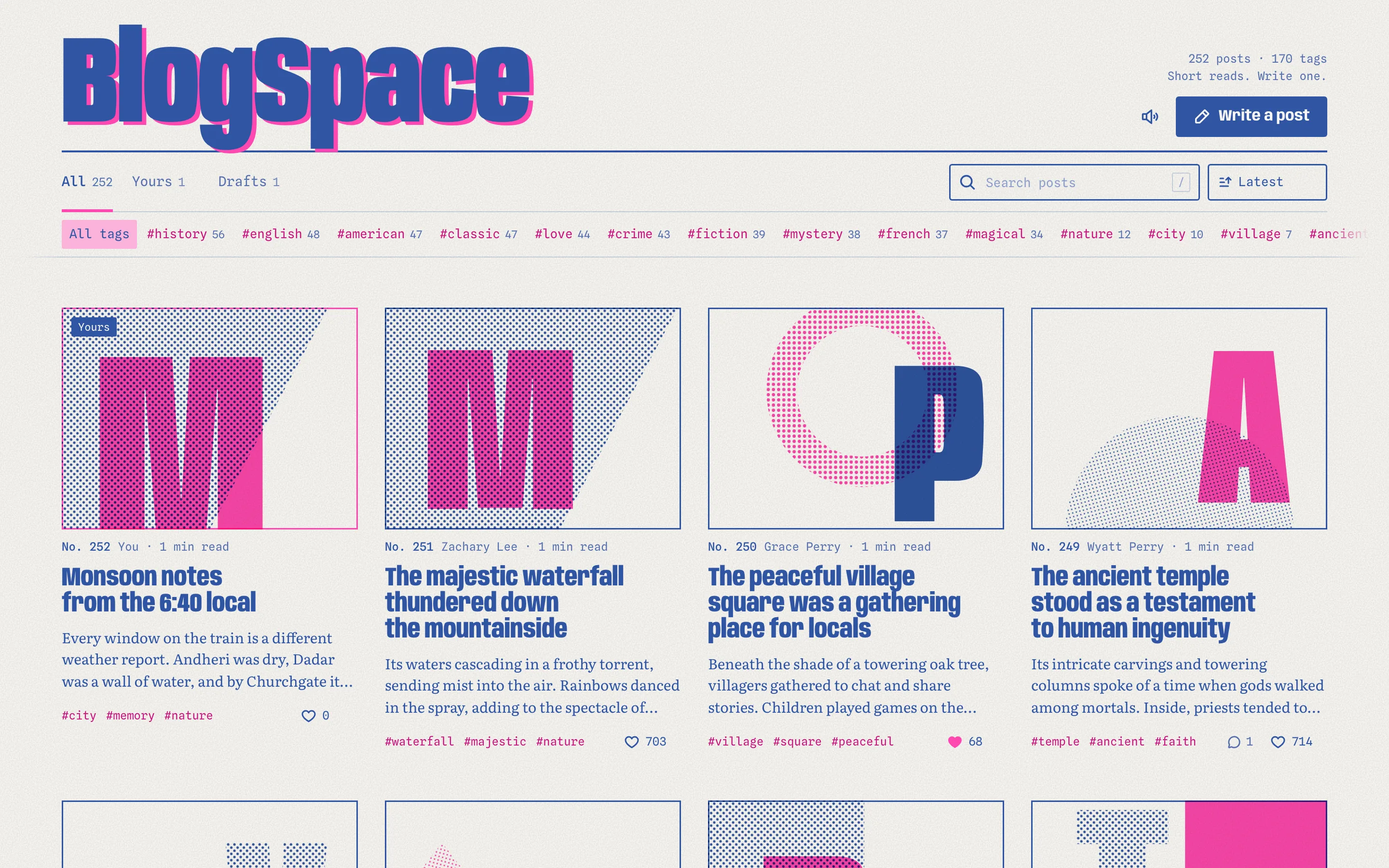
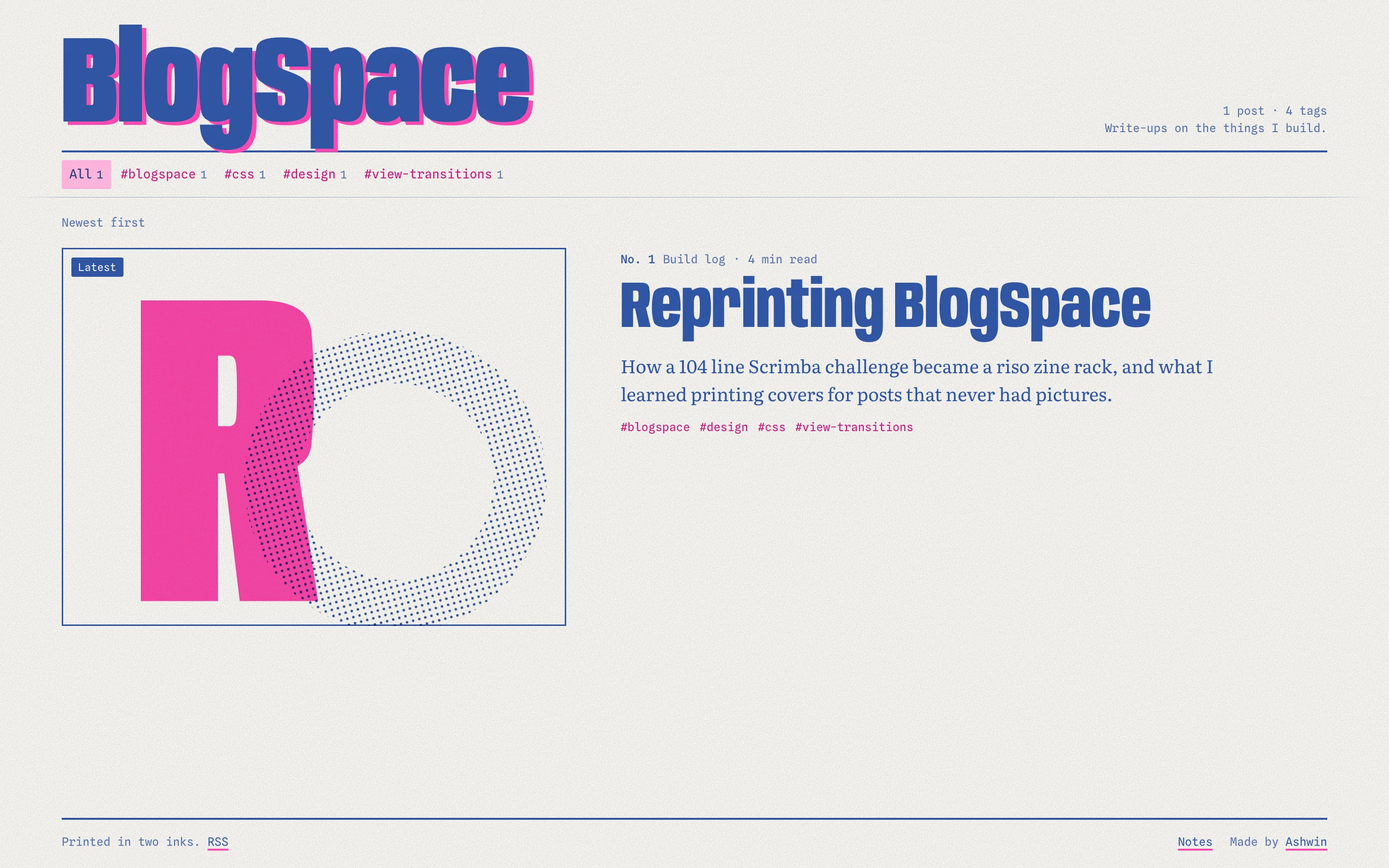
docs: rewrite the readme for the blog and reshoot the screenshots
New screenshots and og image of the blog, a guide to writing a post and
using the figure components, and the astro stack.

diff --git a/README.md b/README.md
@@ -1,15 +1,15 @@
 <p align="center">
   <a href="https://blogspace.ashwin.co.in">
-    <img src="./og.jpg" width="100%" alt="blogspace: a rack of short posts, each with a two ink halftone cover in blue and fluorescent pink, under a big blue wordmark printed slightly off register over pink">
+    <img src="./public/og.jpg" width="100%" alt="blogspace: a big blue wordmark printed slightly off register over pink, and the first post, reprinting blogspace, with a two ink cover of a pink R and a blue halftone ring">
   </a>
 </p>
 
 <p align="center">
   <a href="https://blogspace.ashwin.co.in"><strong>blogspace.ashwin.co.in</strong></a>
   &nbsp;·&nbsp;
-  <a href="#what-it-does">what it does</a>
+  <a href="#what-it-is">what it is</a>
   &nbsp;·&nbsp;
-  <a href="#the-design">the design</a>
+  <a href="#writing-a-post">writing a post</a>
   &nbsp;·&nbsp;
   <a href="#running-it">running it</a>
 </p>
@@ -17,118 +17,154 @@
 <br>
 
 <p align="center">
-  <img src="./docs/screenshots/BlogSpace.webp" width="100%" alt="the app on desktop: the blogspace wordmark, tabs for all, yours and drafts, a search box, a row of tags, and four posts with generated halftone covers, titles, excerpts, tags and like counts">
+  <img src="./docs/screenshots/BlogSpace.webp" width="100%" alt="the rack on desktop: the blogspace wordmark, a row of tags, and the latest post large, with its two ink cover beside the title and a line about it">
 </p>
 
-the source of **[blogspace.ashwin.co.in](https://blogspace.ashwin.co.in)**, a rack of short reads and a place to write your own. it is printed like a risograph zine: two inks, blue and fluorescent pink, on plain stock, and every post gets its own halftone cover.
+the source of **[blogspace.ashwin.co.in](https://blogspace.ashwin.co.in)**, write-ups on the things i build, printed like a risograph zine: two inks, blue and fluorescent pink, on plain stock, and every post gets its own halftone cover.
 
-the posts, authors and comments come from [dummyjson](https://dummyjson.com/docs/posts). what you write is kept on your device and never sent anywhere.
+it used to be an app: a rack of placeholder posts from dummyjson and a writer that kept yours on your device. the look stays. the posts are real now.
 
-it used to be a form that posted to a fake endpoint and forgot the post on reload, over a feed of latin placeholder text. now it reads 251 real posts and keeps yours.
+## what it is
 
-it is one html file, one stylesheet and a few small modules. no framework and no build step.
-
-## what it does
+each post is the story of a project: why it changed, what went wrong, and the details the project pages leave out. the specs live in [my notes](https://notes.ashwin.co.in) and the release history in [redline](https://redline.ashwin.co.in). this is the story part.
 
 <p align="center">
-  <img src="./docs/screenshots/BlogSpace-2.webp" width="32%" alt="the rack on a phone: one post per row, each with its cover, number, author, read time, title, excerpt and tags">
+  <img src="./docs/screenshots/BlogSpace-5.webp" width="32%" alt="a post on a phone: the cover, the title, the dek in italics, tags, and facts for when it was printed, the project, its stack and links">
   &nbsp;
-  <img src="./docs/screenshots/BlogSpace-3.webp" width="32%" alt="a post on a phone: the cover, the title in big condensed type, the text with a pink drop cap, tags, like, share and save buttons">
+  <img src="./docs/screenshots/BlogSpace-6.webp" width="32%" alt="a clip on a phone with a play button, a progress bar with the noted stretches in pink, and three numbered notes with timestamps under it">
   &nbsp;
-  <img src="./docs/screenshots/BlogSpace-4.webp" width="32%" alt="the writer on a phone: a title, tag chips, suggested tags, a formatting toolbar and the text being written in markdown">
+  <img src="./docs/screenshots/BlogSpace-7.webp" width="32%" alt="an annotated screenshot on a phone, panned to its sixth pin, with that note highlighted in the list under it">
 </p>
 
-- **a rack to browse.** every post as a cover, a number, the author, a read time, the title, an excerpt, its tags and its likes. more load as you scroll.
-- **tags, search and sort.** a row of every tag with its count, a search that looks through titles, text, tags and authors as you type, and latest, most liked or most read.
-- **read it properly.** each post has its own page and link, set large with a drop cap, with the author, views, word count, the comments from dummyjson, and the next and previous posts.
-- **like and comment.** likes and your comments stay on your device, and your comments can be deleted with undo.
-- **write your own.** a title, up to five tags (with suggestions from the tags already in use), and the post in markdown, with a toolbar and `cmd` or `ctrl` + `b`, `i` and `k`. the proof beside it shows the post as it will print, cover and all. on a phone, write and proof are two tabs.
-- **drafts save as you type.** close the tab halfway and it is under drafts when you come back. editing a published post keeps a draft of the edit until you update it.
-- **the print run.** publishing lays the pink pass on your new cover, then the blue one, and lands it with a thump.
-- **yours stays yours.** your posts are numbered after the last one in the feed, marked yours, and listed under their own tab. edit or delete them any time, with undo.
-- **markdown in and out.** save any post as a `.md` file, export all of yours in one file, and import `.md` files back (one post per file, or several with front matter).
-- **keyboard.** `n` to write, `/` to search, `j` and `k` for next and previous, `l` to like, `s` to share, `e` to edit, `esc` to go back. `?` lists them.
-- **share.** the share sheet on phones, a copied link everywhere else.
-- **sounds.** a drum pass for each ink and a thump when a post lands, a pop for likes and a tick for taps, made with the web audio api. they wait for your first tap, stay quiet under the ios silent switch, and mute in one tap.
-- **works offline.** the feed is kept on the device and refreshed in the background, and a small service worker keeps the app itself, so the rack and your posts open with no connection.
+- **annotated screenshots.** numbered pink pins and hand drawn rings over a screenshot, with the notes listed under it. hover a note or a pin and its partner lights up; on phones the screenshot pans sideways at a readable size and tapping a note slides to its pin.
+- **clips with timed notes.** short muted loops that play when they scroll into view and pause when they leave. each note has a time, rings its part of the frame while it is on, and jumps there when you tap it.
+- **before and after.** drag across two screenshots to compare an old version with the new one.
+- **live covers.** figures can pull a cover apart into its pink and blue passes and print it again.
+- **margin notes.** asides that sit in the margin beside the paragraph on wide screens, and inline on phones.
+- **a feed.** every post goes out on [rss](https://blogspace.ashwin.co.in/rss.xml), and there is a sitemap.
 - **a misprinted 404**, and every page sets its own title.
 
 ## the design
 
 a blog is self publishing, and the cheapest, loudest way to self publish on paper is a riso zine. so that is what it looks like.
 
-- **two inks.** medium blue (`#2f55a4`) for all the text and fluorescent pink (`#ff48b0`) for the loud parts, on a natural stock (`#f7f6f2`) with a fibre grain. deeper cuts of each are used where text needs the contrast. there is no dark mode: it is printed paper.
-- **generated covers.** every cover is built from its post: the first letter of the title (skipping the and a) in one ink, a shape in the other, solid, halftone or ruled. the pink pass sits a couple of pixels off register, like a real riso print. the same post always gets the same cover.
-- **the wordmark.** blue over pink, printed off register.
-- **type.** [anybody](https://fonts.google.com/specimen/Anybody) for the wordmark, titles and covers, squeezed down its width axis like a poster face. [literata](https://fonts.google.com/specimen/Literata) for reading, and [spline sans mono](https://fonts.google.com/specimen/Spline+Sans+Mono) for numbers, tags and labels.
-- **moving between pages.** the cover you tap grows into the post, and shrinks back into its place in the rack when you go back, using view transitions. the wordmark folds down to a small header on inner pages.
-- **every screen.** one column on phones, two on tablets, three or four on desktop, and the post page puts the cover beside the text when there is room. it was checked at 15 sizes from a 320 px iphone se to a 2560 px monitor, including landscape phones, with no sideways scroll and nothing clipped.
-- **nothing jumps.** fonts are self-hosted and preloaded with metric matched fallbacks, the page fades in once they are ready, and loading placeholders hold the same space as what replaces them. layout shift on load measures 0.
+- **two inks.** medium blue (`#2f55a4`) for all the text and fluorescent pink (`#ff48b0`) for the loud parts, on a natural stock (`#f7f6f2`) with a fibre grain. the inks only overprint on covers. there is no dark mode: it is printed paper.
+- **generated covers.** every cover is built from its post's seed at build time: the first letter of the title (skipping the and a) in one ink, a shape in the other, solid, halftone or ruled. the pink pass sits a couple of pixels off register.
+- **type.** [anybody](https://fonts.google.com/specimen/Anybody) for the wordmark, titles and covers, squeezed down its width axis like a poster face. [literata](https://fonts.google.com/specimen/Literata) for reading, and [spline sans mono](https://fonts.google.com/specimen/Spline+Sans+Mono) for notes, tags and labels.
+- **moving between pages.** the cover and title of a card grow into the post, and shrink back when you go back, with cross document view transitions. there is no client router.
+- **every screen.** checked at 10 sizes from a 320 px phone to a 2560 px monitor, including a landscape phone, with no sideways scroll.
+- **nothing jumps.** fonts are self-hosted with metric matched fallbacks, the latin files are preloaded, and the page fades in once they are ready. images and clips have their size before they load. layout shift measures 0 on load, and 0 while you use the figures.
 
 <details>
 <summary><strong>more screenshots</strong></summary>
 
 <br>
 
-![a post on desktop: the cover sticky on the left with views, words and author, and the post, tags, actions, comments and the next post on the right](./docs/screenshots/BlogSpace-5.webp)
+![a post on desktop: the cover on the left, and the title, dek, tags and facts on the right](./docs/screenshots/BlogSpace-2.webp)
 
-![the writer on desktop: the editor on the left and the printed proof of the post, with its cover, on the right](./docs/screenshots/BlogSpace-6.webp)
+![an annotated screenshot of the old writer with six numbered pink pins and rings, and the six notes under it](./docs/screenshots/BlogSpace-3.webp)
 
-<p align="center">
-  <img src="./docs/screenshots/BlogSpace-7.webp" width="32%" alt="posts tagged love on a phone, sorted by most liked">
-  &nbsp;
-  <img src="./docs/screenshots/BlogSpace-8.webp" width="32%" alt="the not found page: a misprinted cover with a big 4 and the line this page did not make the print run">
-</p>
+![the cover passes figure: the pink pass, the blue pass, and both together with a print it again link](./docs/screenshots/BlogSpace-4.webp)
 
 </details>
+
+## writing a post
+
+a post is a folder in [`src/content/posts`](src/content/posts) with an `index.mdx` and its media beside it:
+
+```
+src/content/posts/reprinting-blogspace/
+  index.mdx
+  writer.webp
+  writer-proof.mp4
+  writer-proof-poster.jpg
+```
+
+the front matter:
+
+```yaml
+---
+title: Reprinting BlogSpace
+dek: One line under the title, also used for feeds and link previews.
+date: 2026-09-29
+kind: build log            # build log, deep dive or note
+tags: [blogspace, design]
+cover: reprinting-blogspace # the cover seed; keeps the cover if the title changes
+draft: false               # drafts show in dev only
+project:
+  name: BlogSpace
+  live: https://blogspace.ashwin.co.in
+  repo: https://github.com/Ashwin-S-Nambiar/Blogspace
+  notes: https://notes.ashwin.co.in/projects/BlogSpace
+  stack: [HTML, CSS, JavaScript]
+---
+```
+
+then import what the post needs from `src/components`. positions are percentages of the image or frame, from the top left.
+
+```mdx
+<Annotated
+  src={writer}
+  alt="what the screenshot shows"
+  marks={[{ x: 4, y: 43, w: 16, h: 5, note: 'Up to five tags, as chips' }]}
+/>
+
+<Clip
+  src={writerClip}
+  poster={writerPoster}
+  length={12}
+  label="what happens in the clip"
+  cues={[{ from: 3, to: 4.6, text: 'Tags turn into chips', x: 3, y: 40, w: 17, h: 5 }]}
+/>
+
+<Compare before={old} after={now} beforeLabel="2025" afterLabel="2026" beforeAlt="..." afterAlt="..." />
+
+<Passes seed="reprinting-blogspace" title="Reprinting BlogSpace" />
+
+<Aside label="House rule">Put it before the paragraph it sits beside.</Aside>
+```
+
+clips are h.264 mp4 without sound. a mark without `w` and `h` is just a pin. figures are full width unless you pass `narrow`.
 
 ## the stack
 
 | layer | choices |
 | --- | --- |
-| markup and style | plain html and css |
-| script | es modules in [`js/`](js), loaded straight by the browser |
-| data | [dummyjson](https://dummyjson.com/docs/posts) posts, users and comments; your posts, drafts, likes and comments in `localStorage` |
-| motion | css, the web animations api and view transitions |
-| type | [anybody](https://fonts.google.com/specimen/Anybody), [literata](https://fonts.google.com/specimen/Literata) and [spline sans mono](https://fonts.google.com/specimen/Spline+Sans+Mono), self-hosted |
+| site | [astro 7](https://astro.build) with [mdx](https://mdxjs.com), fully static |
+| content | content collections, one folder per post, typed front matter |
+| images | `astro:assets`, as avif and webp at four widths |
+| fonts | the astro fonts api, self-hosted, with generated fallbacks |
+| motion | css, cross document view transitions |
+| feeds | [@astrojs/rss](https://docs.astro.build/en/recipes/rss/) and [@astrojs/sitemap](https://docs.astro.build/en/guides/integrations-guide/sitemap/) |
 | icons | [phosphor](https://phosphoricons.com) bold, inlined as an svg sprite |
+| lint and format | [biome](https://biomejs.dev), with a pre-commit hook |
 | hosting | [vercel](https://vercel.com/), as static files |
 
 ## running it
 
-there is nothing to install. the modules need to be served rather than opened as a file, so any static server works:
-
 ```sh
 git clone https://github.com/Ashwin-S-Nambiar/Blogspace.git
 cd Blogspace
-python3 -m http.server 5173   # or: npx serve
+npm install
+npm run dev       # http://localhost:4321
+npm run build     # static site in dist/
+npm run check     # biome and astro check
 ```
-
-then open http://localhost:5173.
 
 ## the shape of it
 
 ```
-index.html      the page, the halftone patterns and the icon sprite
-index.css       tokens, then every component, in one file
-404.html        the misprint page
-sw.js           keeps the app on the device for offline use
-js/
-  main.js       routes, the rack, the post page, the writer, toasts and keys
-  api.js        dummyjson: the feed, authors and comments, cached on the device
-  cover.js      the two ink covers, generated from each post
-  md.js         a small, safe markdown renderer
-  store.js      your posts, drafts, likes and comments
-  sound.js      web audio drum, thump and pop
-  tip.js        tooltips for icon buttons
-fonts/          anybody, literata and spline sans mono, latin and latin-ext
+src/
+  content.config.ts   the posts collection and its front matter
+  content/posts/      one folder per post, media beside it
+  pages/              the rack, posts, tags, rss and the 404
+  layouts/Base.astro  the head, masthead and footer
+  components/         cover, annotated, clip, compare, passes, aside, rack
+  lib/                the cover generator, post helpers and tooltips
+  styles/             tokens and components, and the post column grid
+  assets/fonts/       anybody, literata and spline sans mono
+public/sw.js          retires the old app's service worker
 ```
-
-## known rough edges
-
-- **your posts live on one device.** there is no account and no sync. export them as markdown to move them.
-- **dummyjson is read only.** likes and comments on its posts are kept on your device too, and nobody else sees them.
-- **clearing site data clears your posts.** the export button is the backup.
 
 ---
 
